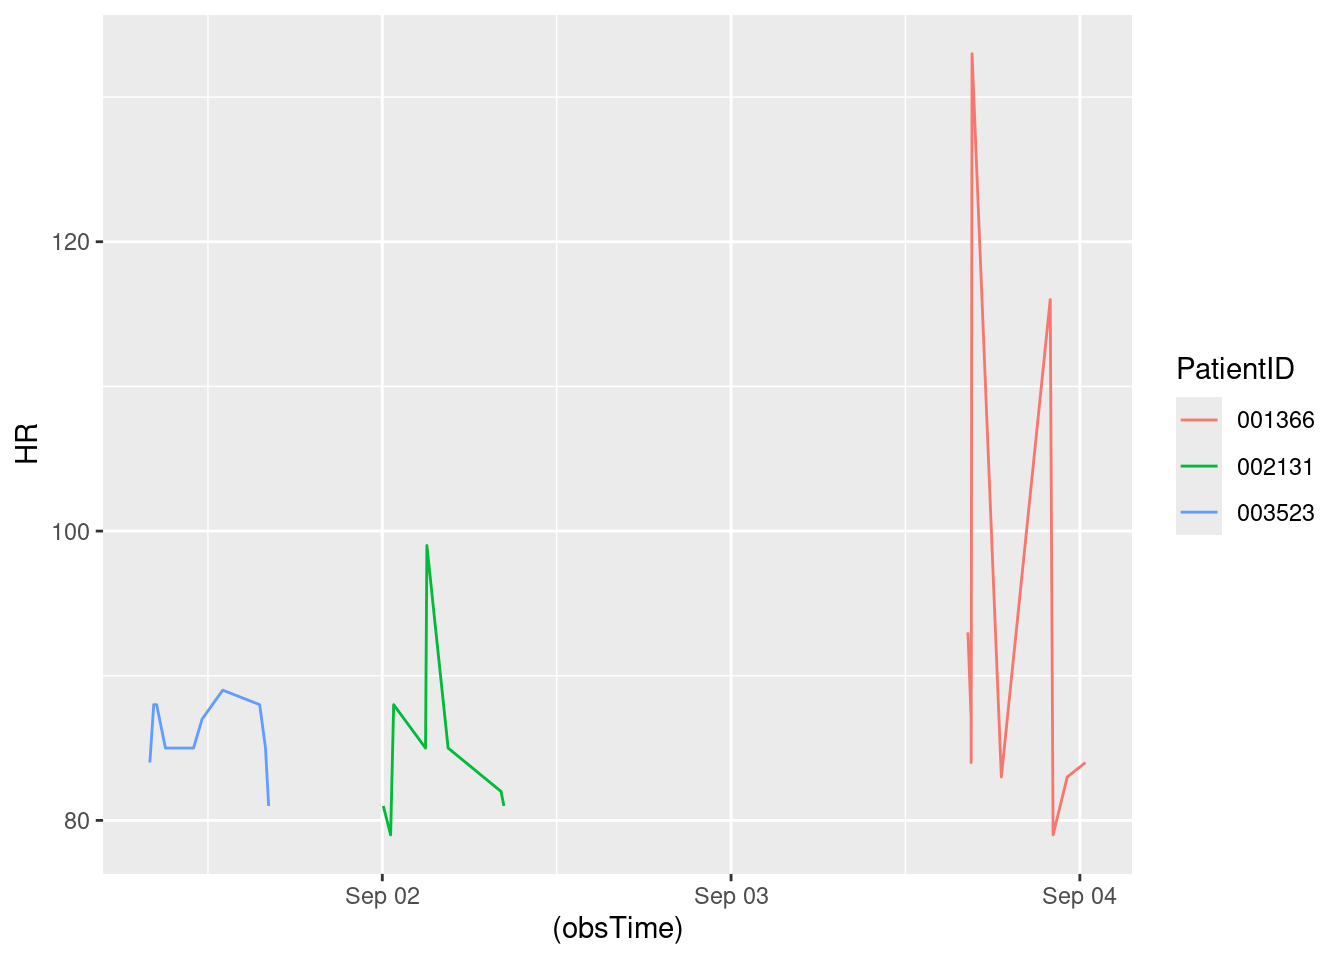
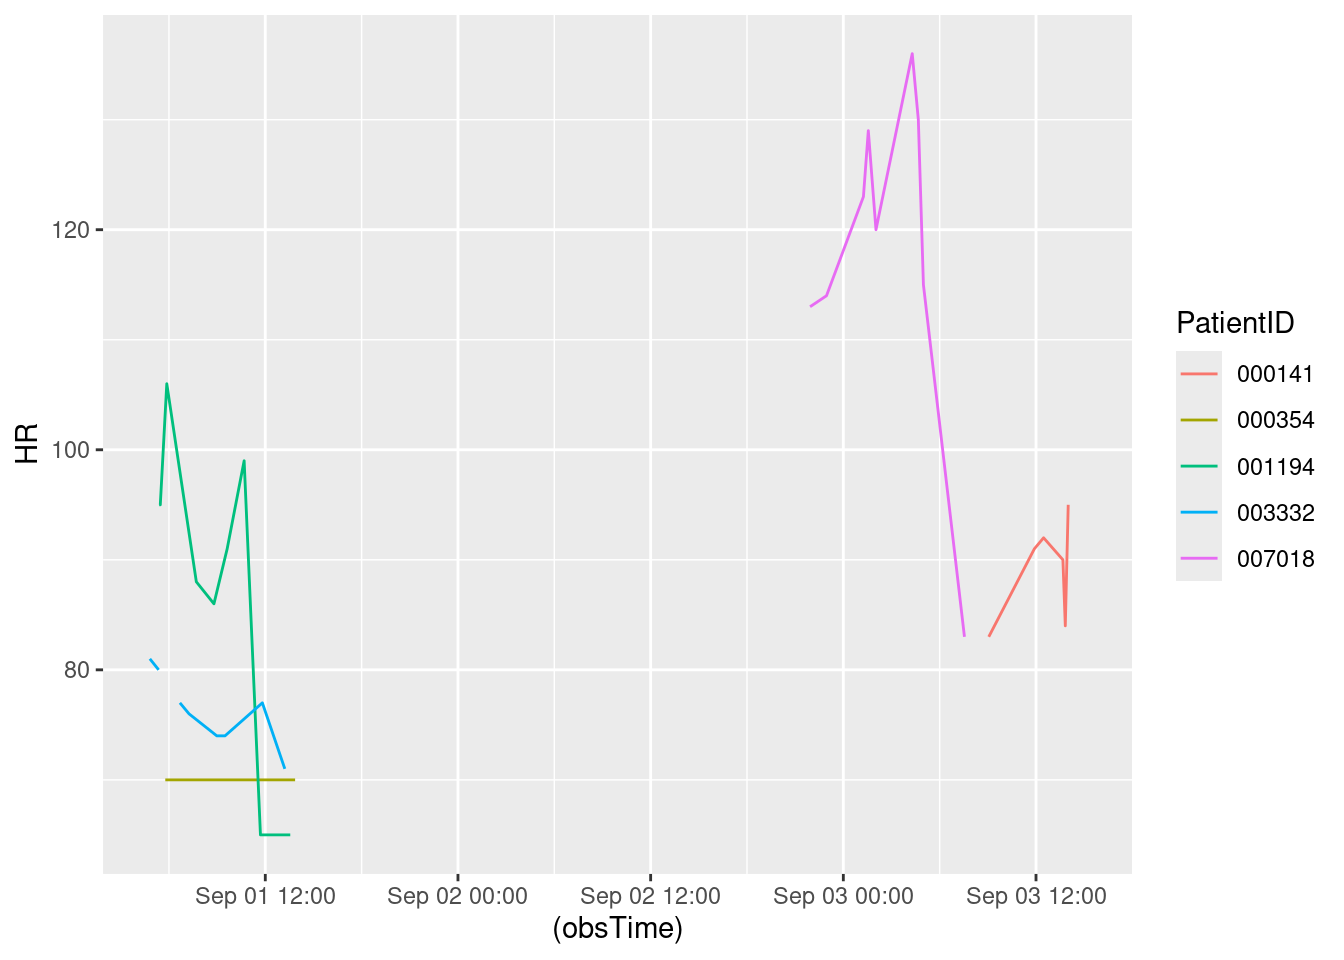
Updated report

diff --git a/HW7.html b/HW7.html
@@ -152,7 +152,7 @@ The following object is masked from 'package:purrr':
 </div>
 <div class="sourceCode cell-code" id="cb8"><pre class="sourceCode r code-with-copy"><code class="sourceCode r"><span id="cb8-1"><a href="#cb8-1" aria-hidden="true" tabindex="-1"></a><span class="fu">toc</span>()</span></code><button title="Copy to Clipboard" class="code-copy-button"><i class="bi"></i></button></pre></div>
 <div class="cell-output cell-output-stdout">
-<pre><code>15.721 sec elapsed</code></pre>
+<pre><code>29.177 sec elapsed</code></pre>
 </div>
 <div class="sourceCode cell-code" id="cb10"><pre class="sourceCode r code-with-copy"><code class="sourceCode r"><span id="cb10-1"><a href="#cb10-1" aria-hidden="true" tabindex="-1"></a><span class="fu">tic</span>()</span>
 <span id="cb10-2"><a href="#cb10-2" aria-hidden="true" tabindex="-1"></a>test1<span class="ot">=</span><span class="fu">makeSepsisDataset</span>(<span class="at">n=</span><span class="dv">50</span>,<span class="at">read_fn =</span> <span class="st">"read_delim"</span>)</span>
@@ -162,7 +162,7 @@ The following object is masked from 'package:purrr':
 </div>
 <div class="sourceCode cell-code" id="cb12"><pre class="sourceCode r code-with-copy"><code class="sourceCode r"><span id="cb12-1"><a href="#cb12-1" aria-hidden="true" tabindex="-1"></a><span class="fu">toc</span>()</span></code><button title="Copy to Clipboard" class="code-copy-button"><i class="bi"></i></button></pre></div>
 <div class="cell-output cell-output-stdout">
-<pre><code>9.725 sec elapsed</code></pre>
+<pre><code>21.457 sec elapsed</code></pre>
 </div>
 <div class="sourceCode cell-code" id="cb14"><pre class="sourceCode r code-with-copy"><code class="sourceCode r"><span id="cb14-1"><a href="#cb14-1" aria-hidden="true" tabindex="-1"></a><span class="fu">tic</span>()</span>
 <span id="cb14-2"><a href="#cb14-2" aria-hidden="true" tabindex="-1"></a>test1<span class="ot">=</span><span class="fu">makeSepsisDataset</span>(<span class="at">n=</span><span class="dv">100</span>,<span class="at">read_fn =</span> <span class="st">"fread"</span>)</span>
@@ -172,7 +172,7 @@ The following object is masked from 'package:purrr':
 </div>
 <div class="sourceCode cell-code" id="cb16"><pre class="sourceCode r code-with-copy"><code class="sourceCode r"><span id="cb16-1"><a href="#cb16-1" aria-hidden="true" tabindex="-1"></a><span class="fu">toc</span>()</span></code><button title="Copy to Clipboard" class="code-copy-button"><i class="bi"></i></button></pre></div>
 <div class="cell-output cell-output-stdout">
-<pre><code>20.248 sec elapsed</code></pre>
+<pre><code>55.311 sec elapsed</code></pre>
 </div>
 <div class="sourceCode cell-code" id="cb18"><pre class="sourceCode r code-with-copy"><code class="sourceCode r"><span id="cb18-1"><a href="#cb18-1" aria-hidden="true" tabindex="-1"></a><span class="fu">tic</span>()</span>
 <span id="cb18-2"><a href="#cb18-2" aria-hidden="true" tabindex="-1"></a>test1<span class="ot">=</span><span class="fu">makeSepsisDataset</span>(<span class="at">n=</span><span class="dv">100</span>,<span class="at">read_fn =</span> <span class="st">"read_delim"</span>)</span>
@@ -182,7 +182,7 @@ The following object is masked from 'package:purrr':
 </div>
 <div class="sourceCode cell-code" id="cb20"><pre class="sourceCode r code-with-copy"><code class="sourceCode r"><span id="cb20-1"><a href="#cb20-1" aria-hidden="true" tabindex="-1"></a><span class="fu">toc</span>()</span></code><button title="Copy to Clipboard" class="code-copy-button"><i class="bi"></i></button></pre></div>
 <div class="cell-output cell-output-stdout">
-<pre><code>17.881 sec elapsed</code></pre>
+<pre><code>42.185 sec elapsed</code></pre>
 </div>
 <div class="sourceCode cell-code" id="cb22"><pre class="sourceCode r code-with-copy"><code class="sourceCode r"><span id="cb22-1"><a href="#cb22-1" aria-hidden="true" tabindex="-1"></a><span class="fu">tic</span>()</span>
 <span id="cb22-2"><a href="#cb22-2" aria-hidden="true" tabindex="-1"></a>test1<span class="ot">=</span><span class="fu">makeSepsisDataset</span>(<span class="at">n=</span><span class="dv">500</span>,<span class="at">read_fn =</span> <span class="st">"fread"</span>)</span>
@@ -192,7 +192,7 @@ The following object is masked from 'package:purrr':
 </div>
 <div class="sourceCode cell-code" id="cb24"><pre class="sourceCode r code-with-copy"><code class="sourceCode r"><span id="cb24-1"><a href="#cb24-1" aria-hidden="true" tabindex="-1"></a><span class="fu">toc</span>()</span></code><button title="Copy to Clipboard" class="code-copy-button"><i class="bi"></i></button></pre></div>
 <div class="cell-output cell-output-stdout">
-<pre><code>99.196 sec elapsed</code></pre>
+<pre><code>272.325 sec elapsed</code></pre>
 </div>
 <div class="sourceCode cell-code" id="cb26"><pre class="sourceCode r code-with-copy"><code class="sourceCode r"><span id="cb26-1"><a href="#cb26-1" aria-hidden="true" tabindex="-1"></a><span class="fu">tic</span>()</span>
 <span id="cb26-2"><a href="#cb26-2" aria-hidden="true" tabindex="-1"></a>test1<span class="ot">=</span><span class="fu">makeSepsisDataset</span>(<span class="at">n=</span><span class="dv">500</span>,<span class="at">read_fn =</span> <span class="st">"read_delim"</span>)</span>
@@ -202,7 +202,7 @@ The following object is masked from 'package:purrr':
 </div>
 <div class="sourceCode cell-code" id="cb28"><pre class="sourceCode r code-with-copy"><code class="sourceCode r"><span id="cb28-1"><a href="#cb28-1" aria-hidden="true" tabindex="-1"></a><span class="fu">toc</span>()</span></code><button title="Copy to Clipboard" class="code-copy-button"><i class="bi"></i></button></pre></div>
 <div class="cell-output cell-output-stdout">
-<pre><code>89.878 sec elapsed</code></pre>
+<pre><code>212.84 sec elapsed</code></pre>
 </div>
 </div>
 <p>Problem 3: Speed reading</p>
@@ -244,7 +244,7 @@ dttm (1): obsTime
 <div class="sourceCode cell-code" id="cb35"><pre class="sourceCode r code-with-copy"><code class="sourceCode r"><span id="cb35-1"><a href="#cb35-1" aria-hidden="true" tabindex="-1"></a><span class="co">#Sys.Date()</span></span>
 <span id="cb35-2"><a href="#cb35-2" aria-hidden="true" tabindex="-1"></a><span class="fu">Sys.time</span>()</span></code><button title="Copy to Clipboard" class="code-copy-button"><i class="bi"></i></button></pre></div>
 <div class="cell-output cell-output-stdout">
-<pre><code>[1] "2024-09-01 03:31:19 UTC"</code></pre>
+<pre><code>[1] "2024-09-01 04:36:52 UTC"</code></pre>
 </div>
 <div class="sourceCode cell-code" id="cb37"><pre class="sourceCode r code-with-copy"><code class="sourceCode r"><span id="cb37-1"><a href="#cb37-1" aria-hidden="true" tabindex="-1"></a>dfnew<span class="ot">=</span>df <span class="sc">%&gt;%</span><span class="fu">subset</span>(SepsisLabel<span class="sc">==</span><span class="dv">1</span>)</span>
 <span id="cb37-2"><a href="#cb37-2" aria-hidden="true" tabindex="-1"></a></span>
@@ -259,20 +259,22 @@ dttm (1): obsTime
 <span id="cb37-11"><a href="#cb37-11" aria-hidden="true" tabindex="-1"></a></span>
 <span id="cb37-12"><a href="#cb37-12" aria-hidden="true" tabindex="-1"></a><span class="fu">print</span>(res)</span></code><button title="Copy to Clipboard" class="code-copy-button"><i class="bi"></i></button></pre></div>
 <div class="cell-output cell-output-stdout">
-<pre><code># A tibble: 3 × 7
-# Groups:   PatientID [3]
+<pre><code># A tibble: 5 × 7
+# Groups:   PatientID [5]
   PatientID ICULOS    HR  Temp  Resp SepsisLabel obsTime            
   &lt;chr&gt;      &lt;int&gt; &lt;int&gt; &lt;dbl&gt; &lt;int&gt;       &lt;int&gt; &lt;dttm&gt;             
-1 001366        69    84  NA      21           1 2024-09-04 00:23:14
-2 002131        32    81  NA      15           1 2024-09-02 08:22:02
-3 003523        13    81  38.2    19           1 2024-09-01 16:10:42</code></pre>
+1 000141        59    NA  NA      NA           1 2024-09-03 15:04:48
+2 000354        10    70  NA      14           1 2024-09-01 13:51:26
+3 001194        11    65  NA      20           1 2024-09-01 13:33:18
+4 003332         9    71  36.6    18           1 2024-09-01 13:12:58
+5 007018        51    83  NA       8           1 2024-09-03 07:32:36</code></pre>
 </div>
 </div>
 <div class="cell">
 <div class="sourceCode cell-code" id="cb39"><pre class="sourceCode r code-with-copy"><code class="sourceCode r"><span id="cb39-1"><a href="#cb39-1" aria-hidden="true" tabindex="-1"></a>dfnew <span class="sc">%&gt;%</span></span>
 <span id="cb39-2"><a href="#cb39-2" aria-hidden="true" tabindex="-1"></a>  <span class="fu">ggplot</span>()<span class="sc">+</span><span class="fu">geom_line</span>(<span class="fu">aes</span>(<span class="at">y=</span>HR,<span class="at">x=</span>(obsTime),<span class="at">color=</span>PatientID))</span></code><button title="Copy to Clipboard" class="code-copy-button"><i class="bi"></i></button></pre></div>
 <div class="cell-output cell-output-stderr">
-<pre><code>Warning: Removed 1 row containing missing values or values outside the scale range
+<pre><code>Warning: Removed 2 rows containing missing values or values outside the scale range
 (`geom_line()`).</code></pre>
 </div>
 <div class="cell-output-display">
